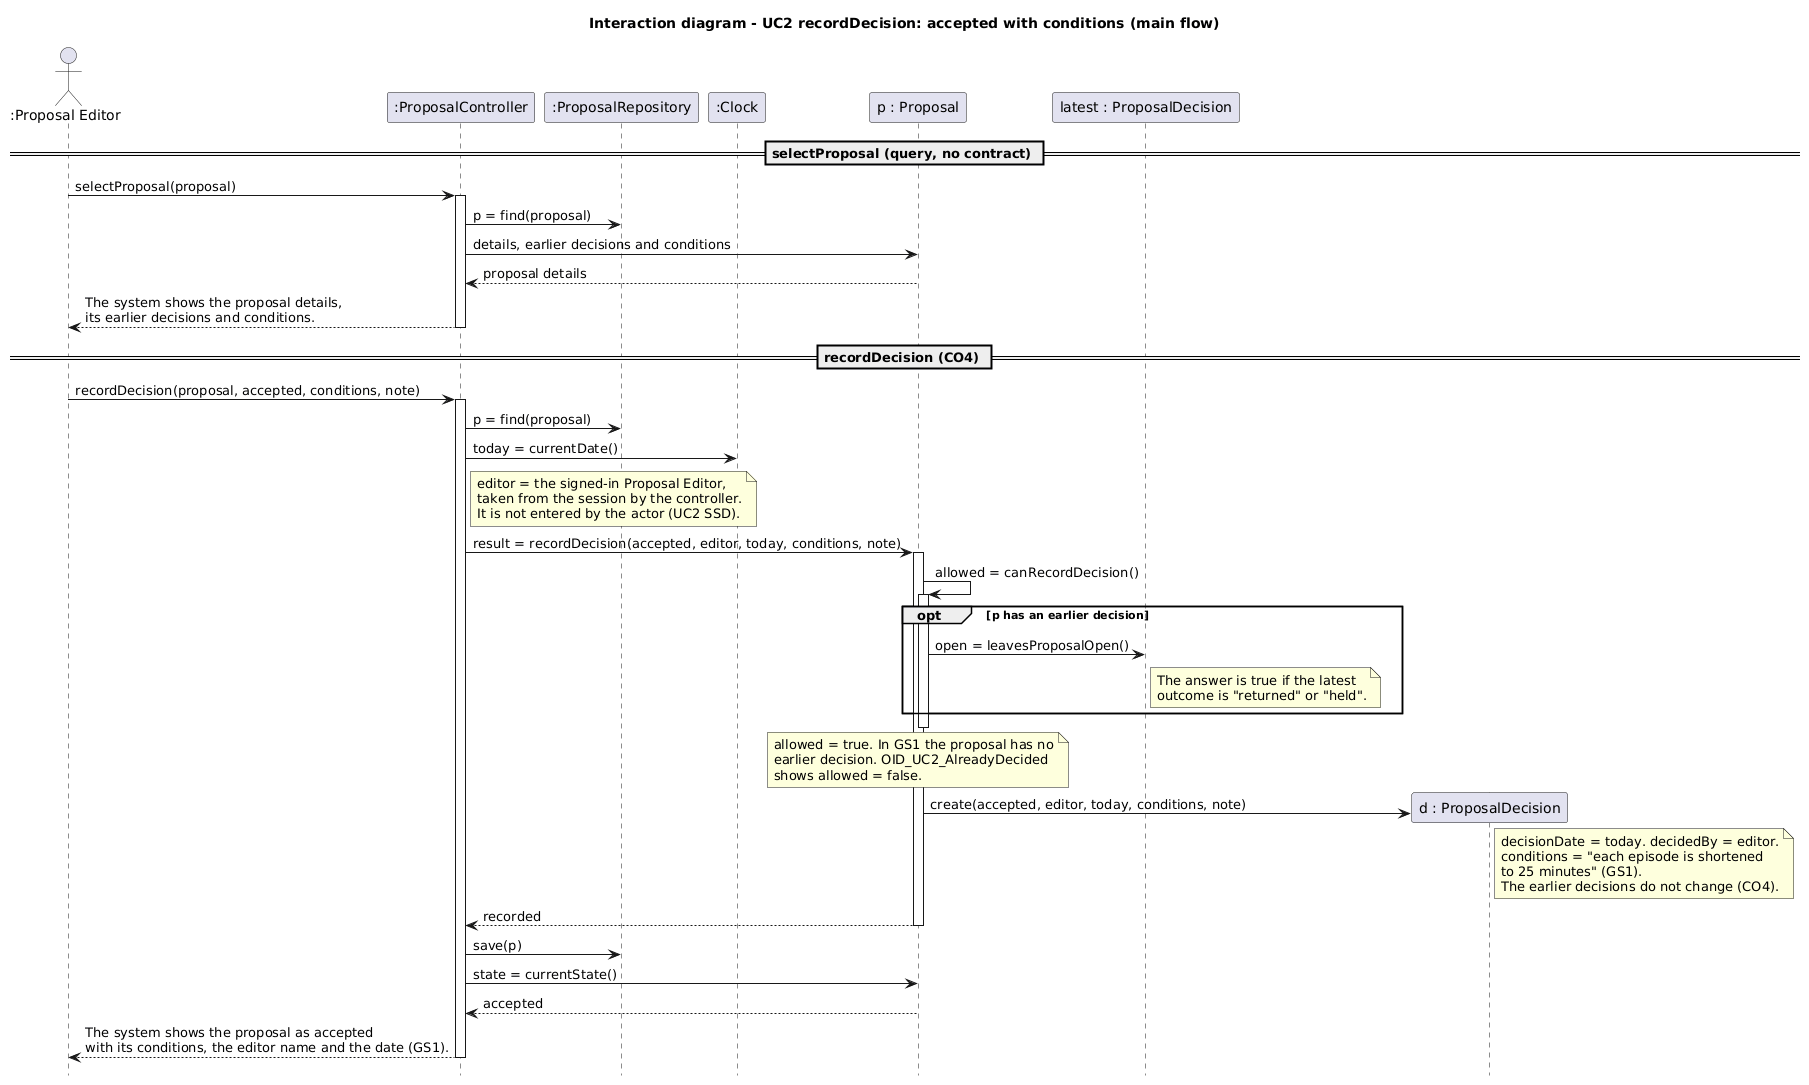
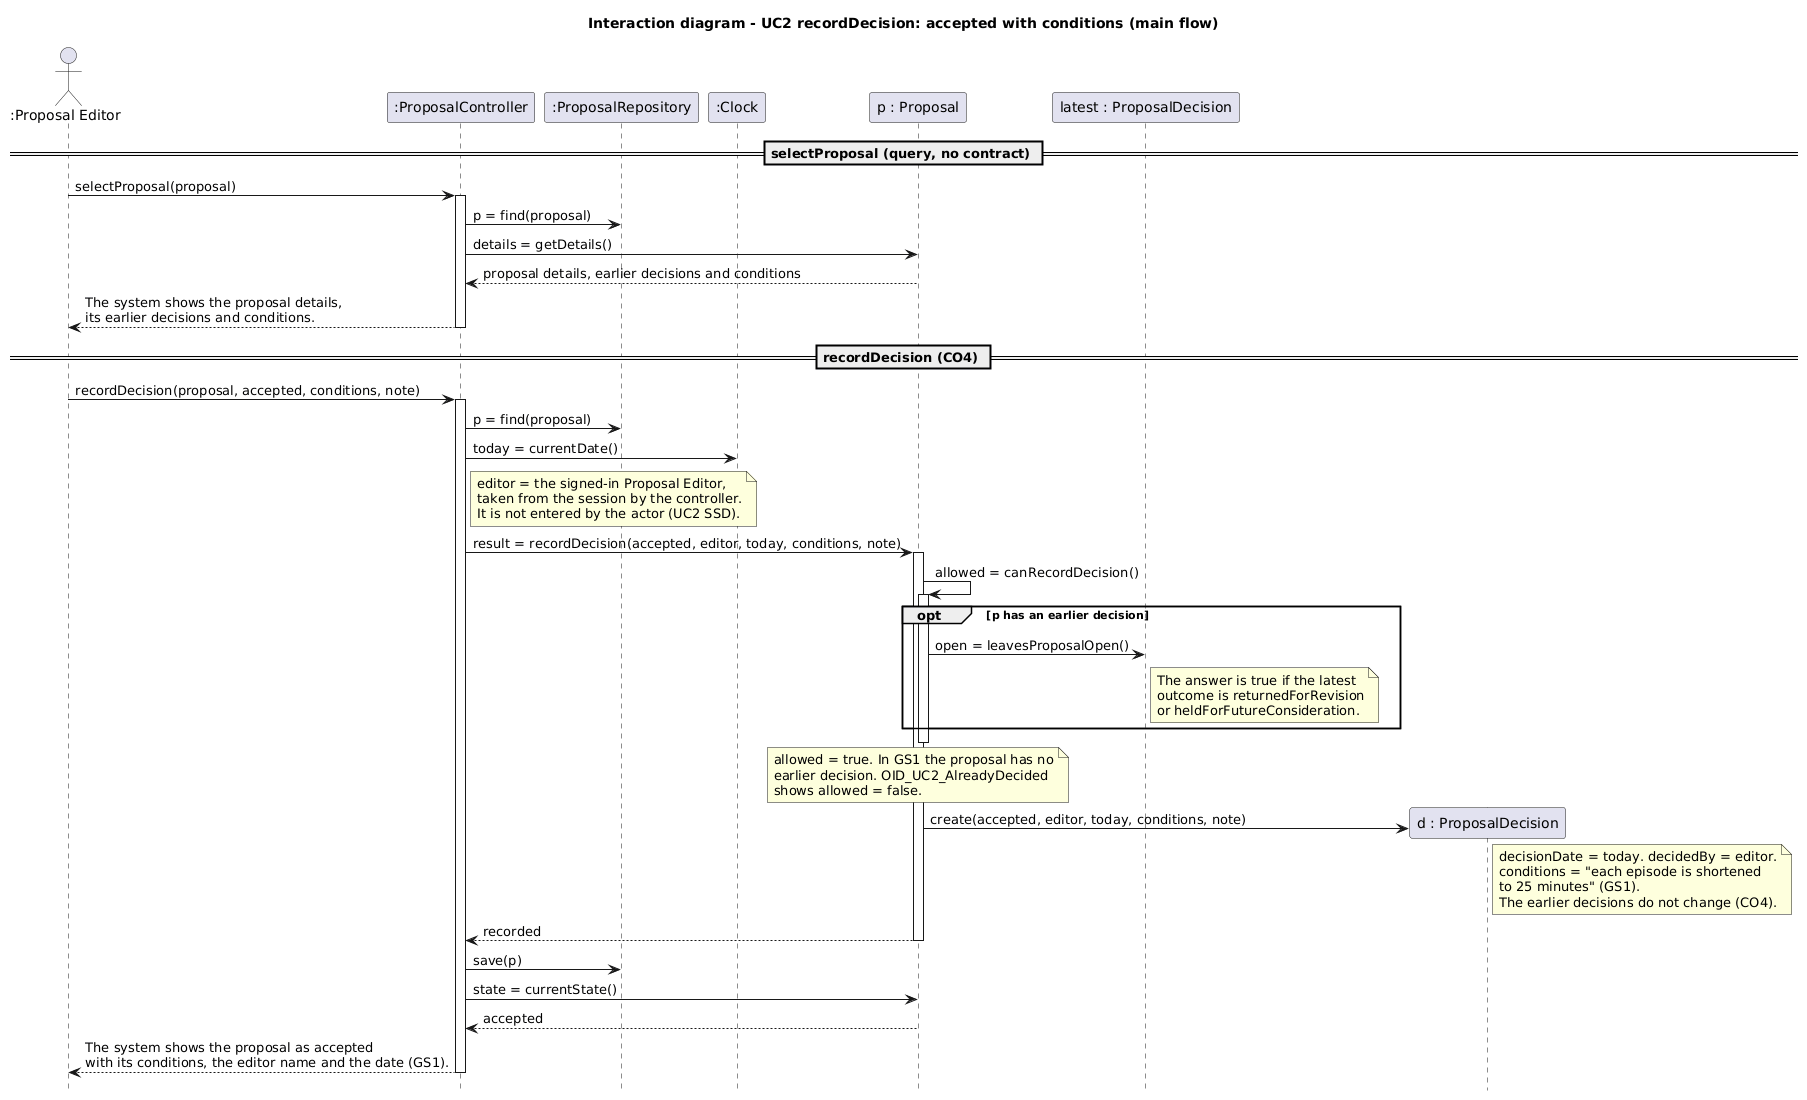
Map CO4 outcome words to DecisionOutcome; use enum names in OID_UC2_Accepted
Part of #45

diff --git a/CA 2/Individual_Contributions/Section_A_Proposal_Rani/CA2_Section_A.md b/CA 2/Individual_Contributions/Section_A_Proposal_Rani/CA2_Section_A.md
@@ -234,6 +234,7 @@ GS1 and GS2 keep their CA1 numbers. New scenarios use GS10–GS19.
 | Preconditions | `proposal` exists. It has no recorded decision, or its latest decision is returned for revision or held. The user acts as proposal editor (who may decide each programme type is open, Q5). |
 | Postconditions | A `ProposalDecision` instance `d` was created. `d.outcome` was set to accepted, rejected, returned for revision or held (BR2). `d.decisionDate` was set to the current date and `d.decidedBy` to the editor. `d.conditions` and `d.note` were set if given. `d` was associated with `proposal` (*Proposal receives ProposalDecision*). Earlier decisions were not changed. The proposal's displayed state follows its latest decision; it is no longer shown as having no recorded decision. |
 | Controlled failures | Latest decision is accepted or rejected: no decision is created (reopening depends on Q2). Outcome not one of the four in BR2: no decision is created. |
+| Outcome names | The BR2 outcomes map to `DecisionOutcome`: accepted → `accepted`, rejected → `rejected`, returned for revision → `returnedForRevision`, held → `heldForFutureConsideration`. Gherkin and screens use the plain words. |
 
 ### Design notes from the SSDs and contracts
 
